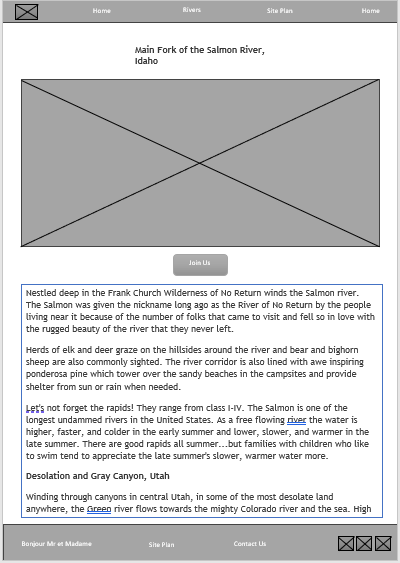
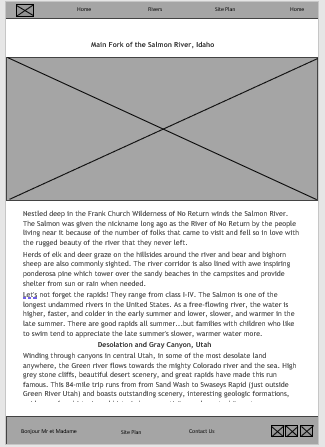
Made some improvements for my pages.

diff --git a/wwr/rivers.html b/wwr/rivers.html
@@ -1,0 +1,95 @@
+
+<!DOCTYPE html>
+<html lang="en">
+<head>
+    <meta charset="UTF-8">
+    <meta http-equiv="X-UA-Compatible" content="IE=edge">
+    <meta name="viewport" content="width=device-width, initial-scale=1.0">
+    <title>Rivers</title>
+    <link rel="stylesheet" href="styles/style.css">
+</head>
+<body>
+    <div id="content">
+            <header>
+                <a id="logo_link" href="index.html">
+                <img class="logo" src="images/logo.png" alt="Dry Oar Logo">
+                </a>
+                <nav>
+                    <a href="index.html">Home</a>
+                    <a href="rivers.html">Rivers</a>
+                    <a href="site-plan-rafting.html">Site Plan</a>
+                    <a href="contactus.html">Contact Us</a>
+                </nav>
+            </header>
+            <h1>
+                Main Fork of the Salmon River, Idaho
+            </h1>
+            <div class="riverimg">
+                <img class="rivemg" src="images/rivers.img.jpg" alt="River image">
+            </div>
+            <div class="pages">
+                <p class="text">
+                    Nestled deep in the Frank Church Wilderness of No Return winds the Salmon river. The Salmon was given the nickname long ago as the River of No Return by the people living near it because of the number of folks that came to visit and fell so in love with the rugged beauty of the river that they never left.
+
+                    Herds of elk and deer graze on the hillsides around the river and bear and bighorn sheep are also commonly sighted. The river corridor is also lined with awe inspiring ponderosa pine which tower over the sandy beaches in the campsites and provide shelter from sun or rain when needed.
+
+                    Let's not forget the rapids! They range from class I-IV. The Salmon is one of the longest undammed rivers in the United States. As a free flowing river the water is higher, faster, and colder in the early summer and lower, slower, and warmer in the late summer. There are good rapids all summer...but families with children who like to swim tend to appreciate the late summer's slower, warmer water more.
+
+                    <h1>Desolation and Gray Canyon, Utah</h1>
+                    Winding through canyons in central Utah, in some of the most desolate land anywhere, the Green river flows towards the mighty Colorado river and the sea. High grey stone cliffs, beautiful desert scenery, and great rapids have made this run famous. This 84-mile trip runs from from Sand Wash to Swaseys Rapid (just outside Green River Utah) and boasts outstanding scenery, interesting geologic formations, evidence of prehistoric and historic human activity, and great whitewater opportunities.
+
+                    <p class="text">Desolation is rated a Class II/III and is usually done in 6 days
+                    Nestled deep in the Frank Church Wilderness of No Return winds the Salmon river. The Salmon was given the nickname long ago as the River of No Return by the people living near it because of the number of folks that came to visit and fell so in love with the rugged beauty of the river that they never left. </p>
+
+                    <p class="text">Herds of elk and deer graze on the hillsides around the river and bear and bighorn sheep are also commonly sighted. The river corridor is also lined with awe inspiring ponderosa pine which tower over the sandy beaches in the campsites and provide shelter from sun or rain when needed.
+                    </p>
+
+                    <p class="text">Let's not forget the rapids! They range from class I-IV. The Salmon is one of the longest undammed rivers in the United States. As a free flowing river the water is higher, faster, and colder in the early summer and lower, slower, and warmer in the late summer. There are good rapids all summer...but families with children who like to swim tend to appreciate the late summer's slower, warmer water more.
+                    </p>
+
+                    <h1>Desolation and Gray Canyon, Utah</h1>
+                    <p>Winding through canyons in central Utah, in some of the most desolate land anywhere, the Green river flows towards the mighty Colorado river and the sea. High grey stone cliffs, beautiful desert scenery, and great rapids have made this run famous. This 84-mile trip runs from from Sand Wash to Swaseys Rapid (just outside Green River Utah) and boasts outstanding scenery, interesting geologic formations, evidence of prehistoric and historic human activity, and great whitewater opportunities.</p>
+                     
+
+                    <h1>Desolation is rated a Class II/III and is usually done in 6 days</h1>   
+
+                    <p class="text">Desolation Canyon has been recognized as a National Landmark.  This designation is based on the uniqueness and rich history that the canyon tells.</p>
+
+                    <h1>Grand Canyon, Arizona</h1>
+                    <p class="text">This is the grand daddy of all canyons and the grand daddy of all river trips. You will never forget your visit to the Grand Canyon.</p>
+
+                    <p class="text">Grand Canyon river rafting combines world-class whitewater with breathtaking scenery to make one truly unforgettable river experience. The canyon is filled not only with exhilarating whitewater rapids, but with side canyons and ancient indian ruins accessible only by river.</p>
+
+                    <p class="text">CLASS I - X: The Grand Canyon uses a unique river rating scale. The rapids in the Canyon are technically rated I - X ( 1 - 10) to accommodate such a wide variety of rapids and river variances. However, most people are familiar with the regular I - V river rating scale, so we often refer to both.</p>
+
+                    <p class="text">Desolation Canyon has been recognized as a National Landmark.  This designation is based on the uniqueness and rich history that the canyon tells.</p>
+
+                    <h1>Grand Canyon, Arizona</h1>
+                    <p class="text">This is the grand daddy of all canyons and the grand daddy of all river trips. You will never forget your visit to the Grand Canyon.</p>
+
+                    <p class="text">Grand Canyon river rafting combines world-class whitewater with breathtaking scenery to make one truly unforgettable river experience. The canyon is filled not only with exhilarating whitewater rapids, but with side canyons and ancient indian ruins accessible only by river.</p>
+
+                    <p class="text">CLASS I - X: The Grand Canyon uses a unique river rating scale. The rapids in the Canyon are technically rated I - X ( 1 - 10) to accommodate such a wide variety of rapids and river variances. However, most people are familiar with the regular I - V river rating scale, so we often refer to both.
+                </p>
+            </div>
+        
+        <footer>
+            <p>Dry Oar &copy; 2023 - Relga-Zidrey Nkounkou</p>
+            <p><a href="site-plan-rafting.html">Site Plan</a></p>
+            <p><a href="contactus.html">Contact Us</a></p>
+            <div class="social">
+                <a href="https://facebook.com" target="_blank">
+                    <img src="images/facebook.png" alt="fb icon">
+                </a>
+                <a href="https://twitter.com">
+                    <img src="images/twitter.png" alt="twitter icon">
+                </a>
+                <a href="https://instagram.com">
+                    <img src="images/instagram.png" alt="instagram icon">
+                </a>
+            </div>
+        </footer>
+    </div>  
+</body>
+</html>
+            

diff --git a/wwr/styles/style.css b/wwr/styles/style.css
@@ -78,6 +78,7 @@ header {
     background-color:#f77f00;
     display: grid;
     grid-template-columns: 150px auto;
+    margin: 0;
 }
 
 nav a:hover {
@@ -221,6 +222,20 @@ footer {
     display: flex;
     justify-content: space-around;
     align-items: center;
+}
+
+/* River page style*/
+
+h1 {
+    text-align: center;
+}
+.text {
+    text-align: center;
+}  
+.rivemg {
+    
+    width: 98.7%;
+    border: 10px solid  #f77f00;;
 }
 
 /* Media queries */

diff --git a/wwr/index.html b/wwr/index.html
@@ -16,7 +16,7 @@
                 </a>
                 <nav>
                     <a href="index.html">Home</a>
-                    <a href="#">Rivers</a>
+                    <a href="rivers.html">Rivers</a>
                     <a href="site-plan-rafting.html">Site Plan</a>
                     <a href="contactus.html">Contact Us</a>
                 </nav>
